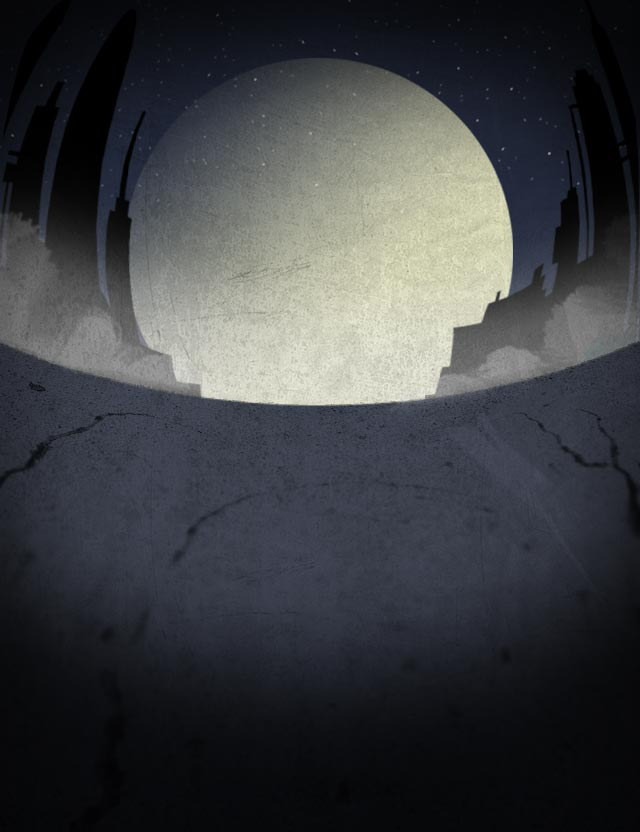
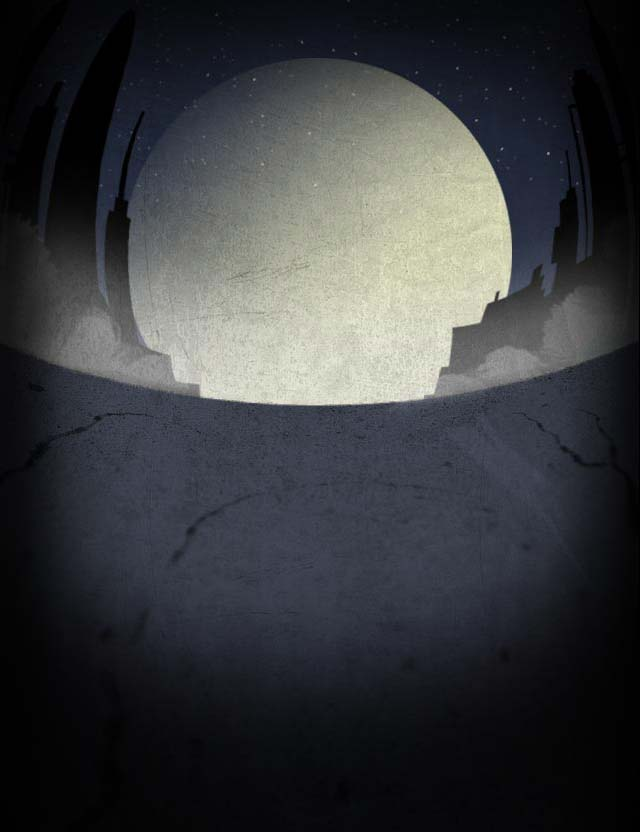
[!]

diff --git a/demo/recruit/css/style.css b/demo/recruit/css/style.css
@@ -19,8 +19,8 @@ button {cursor:pointer;}
 html,body{ height:100%; width:100%; overflow:hidden;}
 body{ background:#5a5a5a;}
 
-.cover_wrap{ height:100%; width:100%; background:#08090e url(../images/index_bg.jpg) no-repeat center bottom; background-size:320px 416px; overflow:hidden; position:relative; -webkit-transition:top 0.3s ease,opacity 0.3s ease; z-index:2;}
-.cover_wrap .building_1{ display:block;  height:140px; width:185px;  position:absolute; left:50%; margin-left:-85px; bottom:200px; overflow:hidden;}
+.cover_wrap{ height:100%; width:100%; background:#08090e url(../images/index_bg.jpg) no-repeat center top; background-size:320px 416px; overflow:hidden; position:relative; -webkit-transition:top 0.3s ease,opacity 0.3s ease; z-index:2;}
+.cover_wrap .building_1{ display:block;  height:140px; width:185px;  position:absolute; left:50%; margin-left:-85px; top:66px; overflow:hidden;}
 .cover_wrap .building_1 .b_body{display:block; background: url(../images/building_bg2.png) no-repeat 0 0; height:140px; width:185px; background-size:contain; position:absolute; left:0px; top:0px; opacity:0;}
 
 .cover_wrap .main_title{ display:block; height:50px; width:254px; background:url(../images/logo_title.png) no-repeat 0 0; background-size:contain; position:absolute; left:50%; bottom:100px; margin-left:-127px; text-indent:-9999px; overflow:hidden; z-index:2; opacity:0; -webkit-transform:translate(0,-500px);}
@@ -56,9 +56,9 @@ body{ background:#5a5a5a;}
 	100%{ opacity:1;}
 }
 
-.cover_wrap .logo_teg{ display:block; height:9px; width:70px; background:url(../images/logo_teg.png) no-repeat 0 0; background-size:contain; position:absolute; left:50%; bottom:12px; margin-left:80px; text-indent:-9999px; overflow:hidden; z-index:2;}
+.cover_wrap .logo_teg{ display:block; height:9px; width:70px; background:url(../images/logo_teg.png) no-repeat 0 0; background-size:contain; position:absolute; right:15px; bottom:12px; text-indent:-9999px; overflow:hidden; z-index:2;}
 
-.penguin_wrap{ display:block; height:88px; width:178px; position:absolute; left:50%; bottom:213px; margin-left:-89px; z-index:1;}
+.penguin_wrap{ display:block; height:88px; width:178px; position:absolute; left:50%; top:114px; margin-left:-89px; z-index:1;}
 .penguin_wrap .power_gas{ display:block; height:120px; width:216px; background:url(../images/power_gas.png) no-repeat 0 0; background-size:contain; position:absolute; left:-18px; top:-21px; -webkit-transform-origin:50% 100%; -webkit-animation:a_power_gas 1.8s linear alternate infinite;}
 
 .penguin_wrap .penguin_1{ display:block; height:68px; width:51px; position:absolute; left:0px; bottom:4px; z-index:1;}
@@ -152,6 +152,7 @@ body{ background:#5a5a5a;}
 .wrap_show .txt_wrap .txt_3{ -webkit-animation:a_txt 1.5s 4.7s linear both;}
 .wrap_show .txt_wrap .txt_4{ -webkit-animation:a_txt_last 0.3s 6.2s linear both;}
 .wrap_show .time_hook{ -webkit-animation:a_opacity 0.5s 6.5s linear both;}
+.wrap_show .brush{}
 
 
 .con_wrap{ display:block; height:100%; width:100%; /*background:url(../images/bg.jpg) no-repeat center 0; background-size:100% 100%;*/ position:absolute; left:0px; top:0px; overflow:hidden; -webkit-transition:top 0.3s ease,opacity 0.3s ease; z-index:1;}
@@ -189,25 +190,25 @@ body{ background:#5a5a5a;}
 .tab_list_1{ margin-left:8px;}
 .tab_list_2{ margin-left:41px;}
 .tab_list{ position:absolute; left:0px; top:0px; width:320px;}
-.tab_list .tab_item{ display:block; height:48px; float:left; background-size:contain; text-align:center; color:#000; font-family:'microsoft yahei'; font-weight:bold; font-size:16px; line-height:1.2; padding-top:5px; margin-right:-3px;}
+.tab_list .tab_item{ display:block; height:48px; float:left; background-size:contain; text-align:center; color:#000; font-family:'microsoft yahei'; font-weight:bold; font-size:16px; line-height:1.2; padding-top:5px; margin-right:-3px; -webkit-tap-highlight-color:rgba(0,0,0,0);}
 .tab_list .tab_item:hover{ text-decoration:none;}
 
-.tab_list .tab_item_1{ background-image:url(../images/tab_1_2.png); width:72px;}
-.tab_list .current .tab_item_1{ background-image:url(../images/tab_1_1.png);}
-.tab_list .tab_item_2{ background-image:url(../images/tab_2_2.png); width:64px;}
-.tab_list .current .tab_item_2{ background-image:url(../images/tab_2_1.png);}
-.tab_list .tab_item_3{ background-image:url(../images/tab_3_2.png); width:67px;}
-.tab_list .current .tab_item_3{ background-image:url(../images/tab_3_1.png);}
-.tab_list .tab_item_4{ background-image:url(../images/tab_4_2.png); width:53px;}
-.tab_list .current .tab_item_4{ background-image:url(../images/tab_4_1.png);}
-.tab_list .tab_item_5{ background-image:url(../images/tab_5_2.png); width:62px;}
-.tab_list .current .tab_item_5{ background-image:url(../images/tab_5_1.png);}
-.tab_list .tab_item_6{ background-image:url(../images/tab_6_2.png); width:81px;}
-.tab_list .current .tab_item_6{ background-image:url(../images/tab_6_1.png);}
-.tab_list .tab_item_7{ background-image:url(../images/tab_7_2.png); width:87px;}
-.tab_list .current .tab_item_7{ background-image:url(../images/tab_7_1.png);}
-.tab_list .tab_item_8{ background-image:url(../images/tab_8_2.png); width:79px;}
-.tab_list .current .tab_item_8{ background-image:url(../images/tab_8_1.png);}
+.tab_list .tab_item_1{ background-image:url(../images/tab_1_1.png); width:72px;}
+.tab_list .current .tab_item_1{ background-image:url(../images/tab_1_2.png);}
+.tab_list .tab_item_2{ background-image:url(../images/tab_2_1.png); width:64px;}
+.tab_list .current .tab_item_2{ background-image:url(../images/tab_2_2.png);}
+.tab_list .tab_item_3{ background-image:url(../images/tab_3_1.png); width:67px;}
+.tab_list .current .tab_item_3{ background-image:url(../images/tab_3_2.png);}
+.tab_list .tab_item_4{ background-image:url(../images/tab_4_1.png); width:53px;}
+.tab_list .current .tab_item_4{ background-image:url(../images/tab_4_2.png);}
+.tab_list .tab_item_5{ background-image:url(../images/tab_5_1.png); width:62px;}
+.tab_list .current .tab_item_5{ background-image:url(../images/tab_5_2.png);}
+.tab_list .tab_item_6{ background-image:url(../images/tab_6_1.png); width:81px;}
+.tab_list .current .tab_item_6{ background-image:url(../images/tab_6_2.png);}
+.tab_list .tab_item_7{ background-image:url(../images/tab_7_1.png); width:87px;}
+.tab_list .current .tab_item_7{ background-image:url(../images/tab_7_2.png);}
+.tab_list .tab_item_8{ background-image:url(../images/tab_8_1.png); width:79px;}
+.tab_list .current .tab_item_8{ background-image:url(../images/tab_8_2.png);}
 
 .tab_list_3{ opacity:0; pointer-events:none; -webkit-transition:opacity 0.3s 2s linear;}
 .tab_list_3 .tab_item_8{ margin-left:124px; background-image:url(../images/tab_8_1.png);}
@@ -274,13 +275,13 @@ body{ background:#5a5a5a;}
 .tearing .surrender_tips{ opacity:0; pointer-events:auto;}
 .tearing .tab_list_1,.tearing .tab_list_2{ opacity:0; pointer-events:none;}
 .tearing .tab_list_3{ opacity:1; pointer-events:auto;}
-.tearing .bg_hook{ opacity:0;}
+.tearing .email_connect_bg{ opacity:1;}
 
 .wrap_after{ margin-left:150px; opacity:0; z-index:1;}
 .wrap_before{ margin-left:-450px; opacity:0; z-index:1;}
 .tearing .wrap_before,.tearing .wrap_after{-webkit-animation:none;}
 
-.bg_hook{ display:block; height:80%; width:90%; background: url(../images/bg_hook.jpg) no-repeat 0 0; background-size:100%; position:absolute; left:50%; margin-left:-45%; top:64px;}
+/*.bg_hook{ display:block; height:80%; width:90%; background: url(../images/bg_hook.jpg) no-repeat 0 0; background-size:100%; position:absolute; left:50%; margin-left:-45%; top:64px;}*/
 
 .wrap_prepare{ top:100%; opacity:0;}
 .wrap_show{ top:0%; opacity:1;}
@@ -294,6 +295,7 @@ body{ background:#5a5a5a;}
 .email_wrap{ display:block; height:100%; width:100%; overflow:hidden; position:absolute; left:0px; top:0px; background:url(../images/bg.jpg) no-repeat center 0; background-size:100% 100%;}
 .email_wrap .title{ display:none;}
 .email_wrap .email_link{ display:none;}
+.email_connect_bg{ display:block; height:280px; width:240px; background:url(../images/email_bg.png) no-repeat 0 0; background-size:contain; position:absolute; left:50%; top:64px; margin-left:-120px; opacity:0;}
 
 .tear_page_wrap .poster_wrap{ top:0px;}
 
@@ -304,6 +306,7 @@ body{ background:#5a5a5a;}
 	.tear_page_wrap{ top:5px;}
 	.tab_wrap{ bottom:20px;}
 	.surrender_tips{ top:51px;}
+	.email_connect_bg{ top:104px; }
 }
 
 

diff --git a/demo/recruit/index.html b/demo/recruit/index.html
@@ -562,15 +562,17 @@
 </div>
 
 <div class="email_wrap">
-	<h3 class="title">自首举报邮箱</h3>
-	<a href="#" class="email_link">TEGjob@tencent.com</a>
-    <div class="bg_hook"></div>
+	<div class="email_connect_bg">
+        <h3 class="title">自首举报邮箱</h3>
+        <a href="#" class="email_link">TEGjob@tencent.com</a>
+    </div>
+   <!-- <div class="bg_hook"></div>-->
 </div>
 
-<!--<div class="hook_up">up</div>
+<div class="hook_up">up</div>
 <div class="hook_down">down</div>
 <div class="hook_left">left</div>
-<div class="hook_right">right</div>-->
+<div class="hook_right">right</div>
 
 <script language="javascript" type="text/javascript" src="js/jquery-2.0.0.min.js"></script>
 <script language="javascript" type="text/javascript" src="js/js.js"></script>
